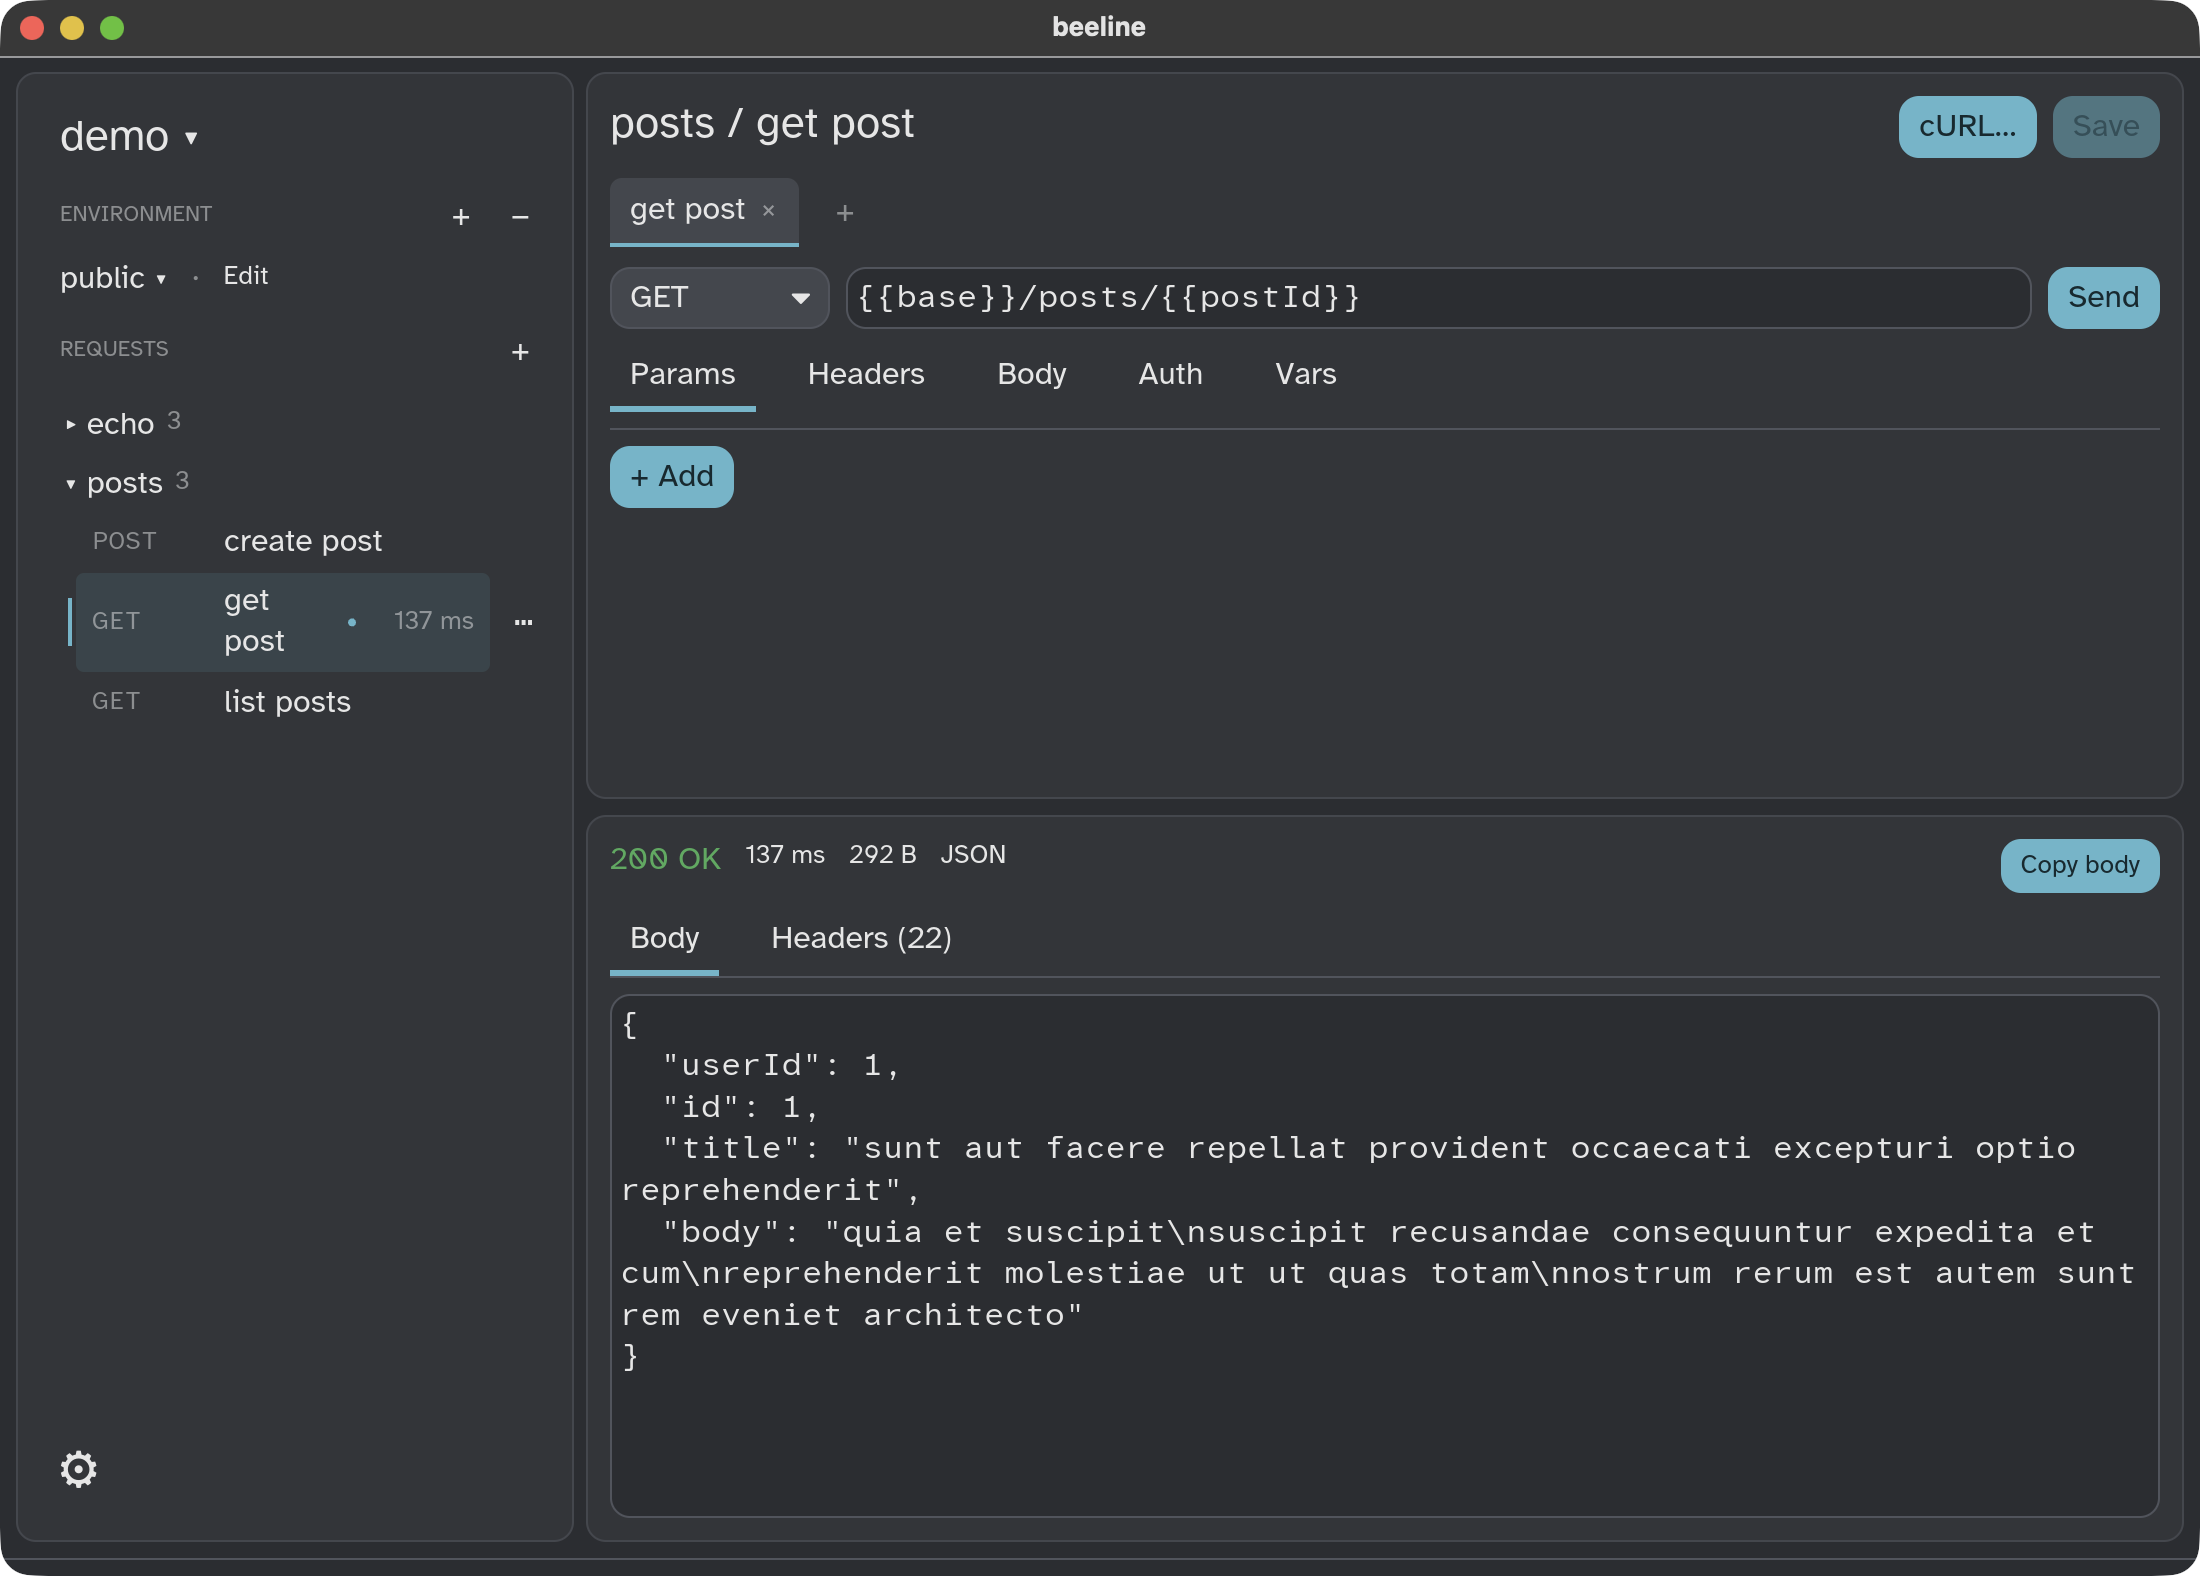
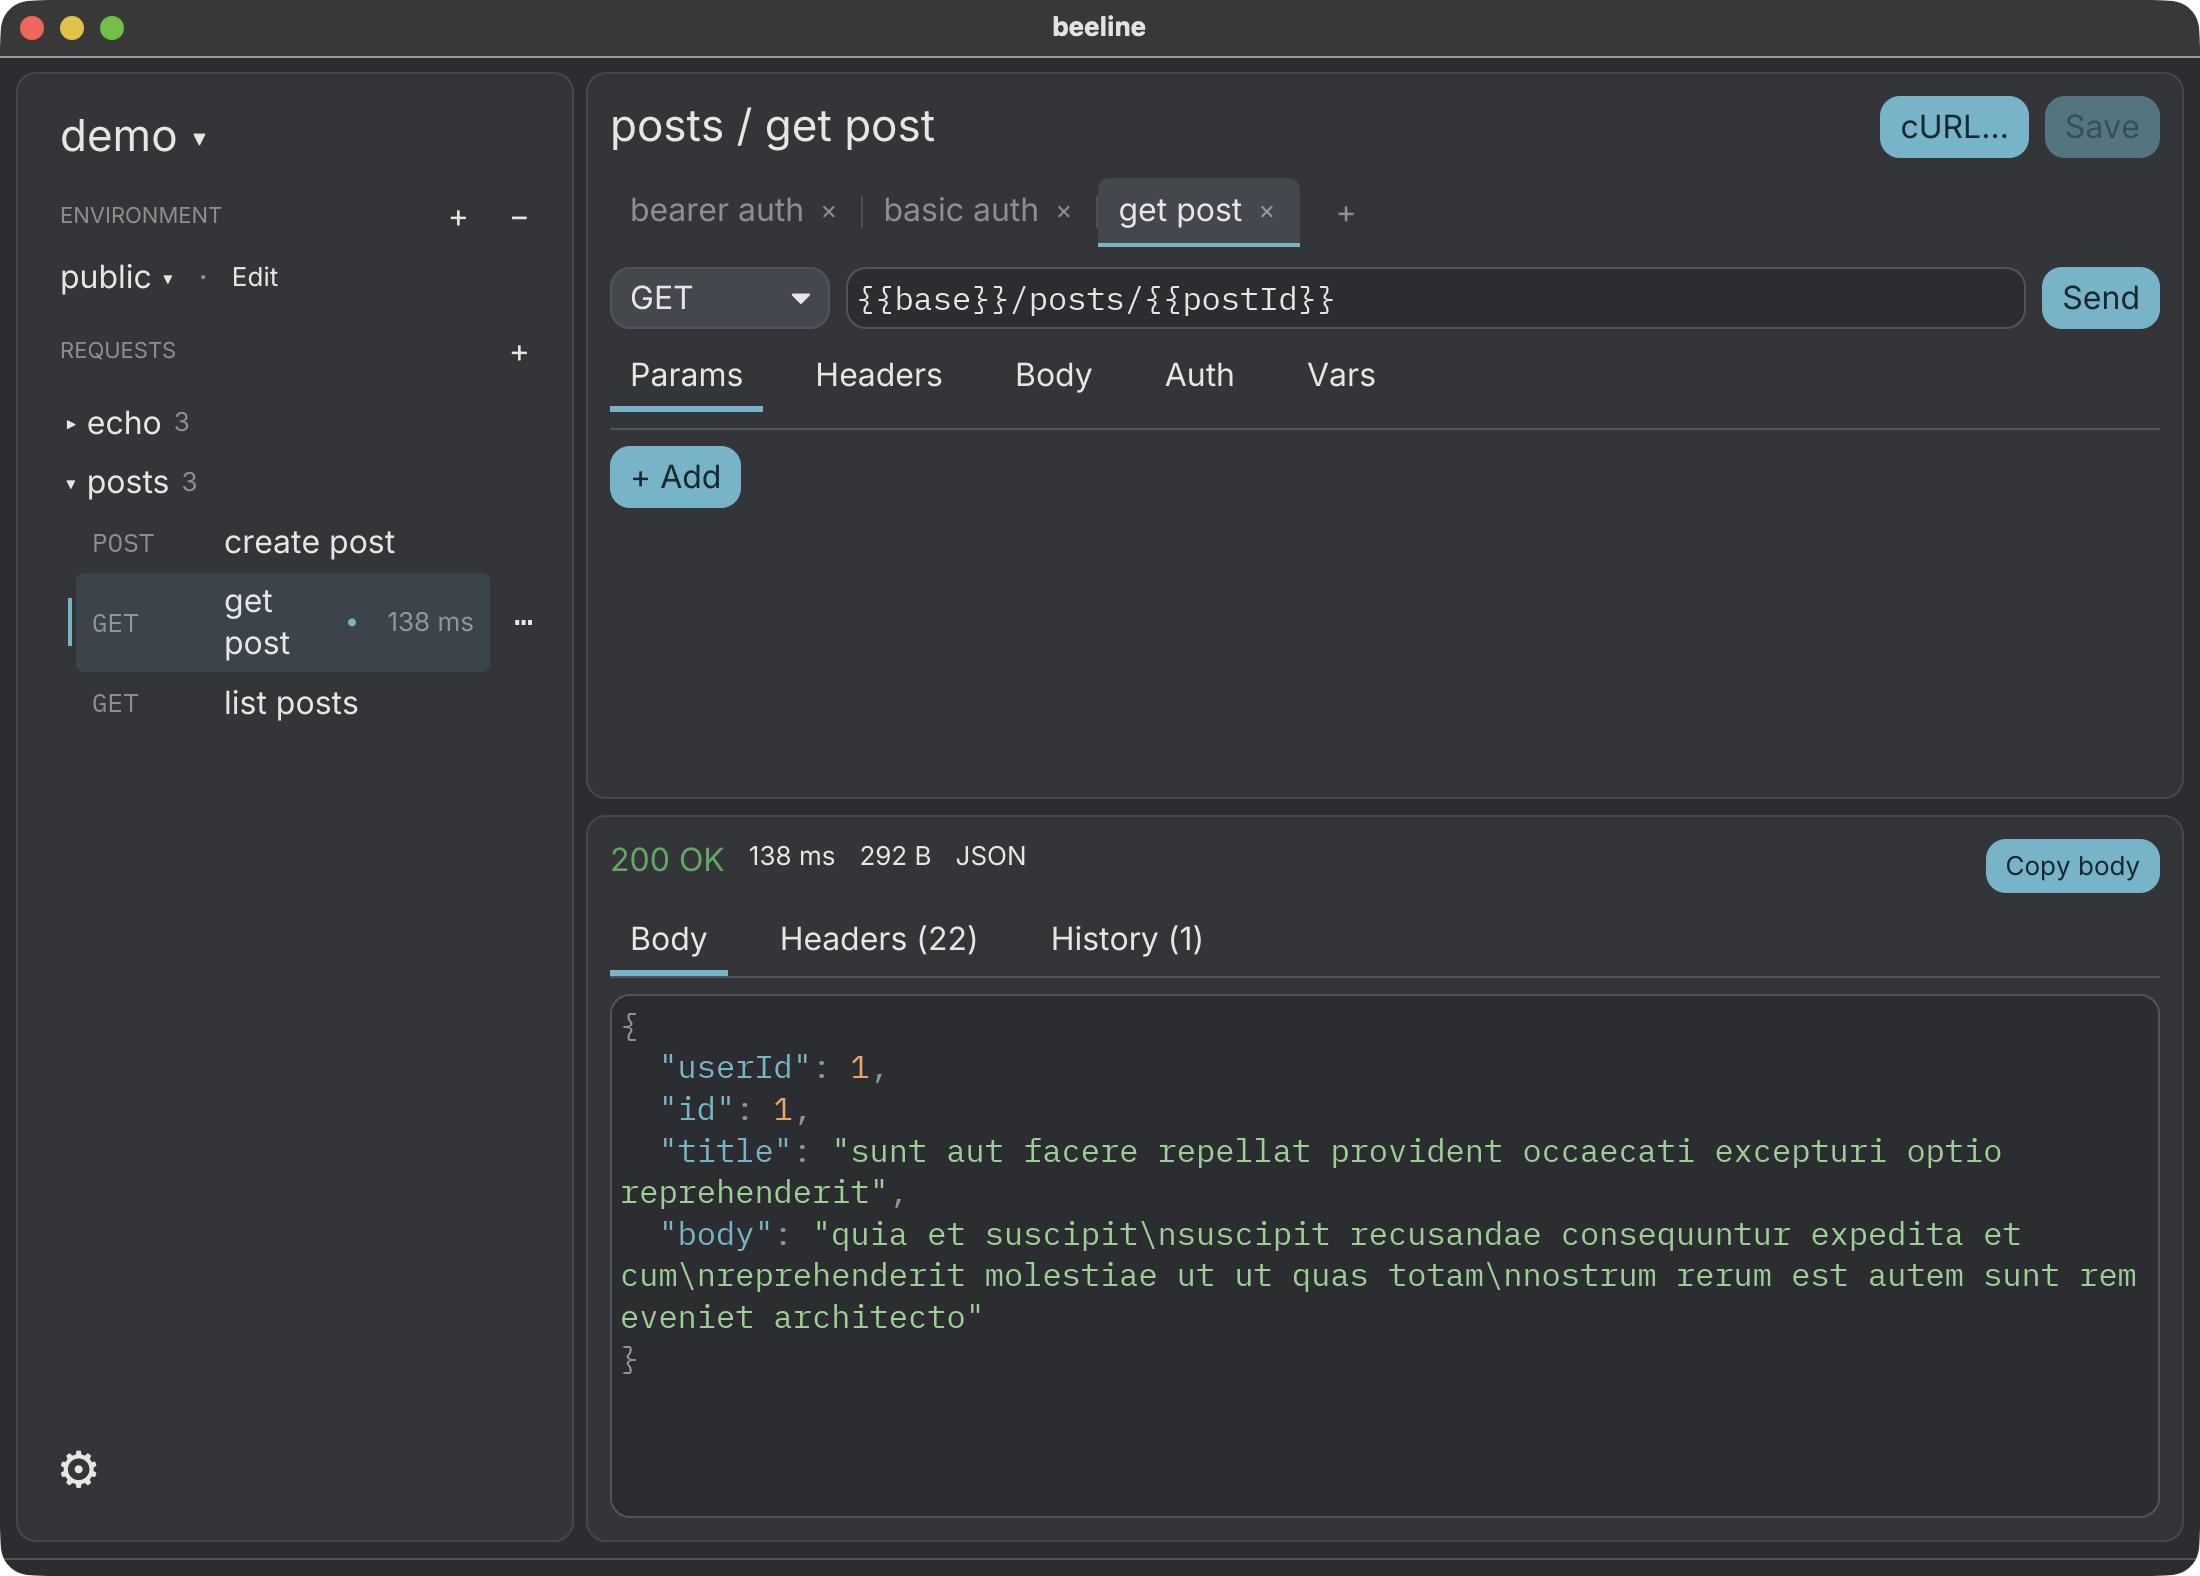
README and AGENTS.md: JSON colours, session history, new screenshot
The README screenshot now shows a colour-highlighted JSON response.
AGENTS.md lists the new modules and says history is session-only.

diff --git a/AGENTS.md b/AGENTS.md
@@ -12,7 +12,10 @@ supply `{{vars}}`. The current scope is in
 Request tabs (several open requests, one tab each) are in scope; see
 `docs/superpowers/specs/2026-10-16-request-tabs-design.md`.
 
-Out of scope for now: request history, scripting, assertions,
+Request history is session-only (the last sends of each tab, in memory);
+history saved to disk is not in scope.
+
+Out of scope for now: scripting, assertions,
 cookies, GraphQL, websockets, file uploads, a plugin system, and any
 cloud sync. Do not build them speculatively. Future ideas live in
 GitHub Issues: https://github.com/zpeters/beeline/issues.
@@ -28,6 +31,8 @@ Pure modules (no I/O, unit-tested):
 - `format.rs` — response display helpers (pretty JSON, sizes, times).
 - `curl.rs` — a resolved request as a shell-safe `curl` command.
 - `spark.rs` — session-only response-time series for sidebar sparklines.
+- `history.rs` — a capped, numbered list of a tab's sends (session only).
+- `highlight.rs` — splits one line of JSON into tokens for syntax colours.
 - `recents.rs` — the recent-collections list.
 - `settings.rs` — the settings file format and its limits.
 
@@ -49,7 +54,8 @@ UI (iced 0.14, Elm-style: `update` returns a `Task`, `view` builds
   send `menu::Command`s to `App::update`. No Edit menu: its ⌘C/⌘V items
   would take those keys from iced's text fields. On macOS the bar owns ⌘S
   and ⌘W, so the in-window shortcut handler skips them.
-- `ui/editor.rs`, `ui/response.rs`, `ui/sidebar.rs`, `ui/tab_strip.rs`,
+- `ui/editor.rs`, `ui/response.rs`, `ui/highlight.rs` (iced Highlighter
+  over `highlight.rs`), `ui/sidebar.rs`, `ui/tab_strip.rs`,
   `ui/dialog.rs`, `ui/theme.rs`, `ui/mod.rs` (shared key/value table).
   Widgets edit the state they are handed or return messages; they do no
   I/O.

diff --git a/README.md b/README.md
@@ -15,7 +15,7 @@ hand-edit them and keep them in git next to your code. There is no account,
 no cloud sync and no telemetry.
 
 <p align="center">
-  <img src="assets/screenshots/main.png" alt="beeline with a request open and a JSON response" width="820">
+  <img src="assets/screenshots/main.png" alt="beeline with a request open and a colour-highlighted JSON response" width="820">
 </p>
 
 ## Features
@@ -29,7 +29,10 @@ no cloud sync and no telemetry.
 - **Environments.** Put `environments/<name>.json` in the collection,
   pick one in the sidebar, and use `{{name}}` anywhere in a request.
 - **Response viewer.** Status, time, size, pretty-printed JSON (keys stay
-  in server order) and headers.
+  in server order) with syntax colours, and headers. JSON request bodies
+  are coloured too.
+- **History.** Each request tab keeps its last 20 sends for the session;
+  pick one to see that response again.
 - **Import** from a cURL command, an OpenAPI 3 or Postman v2.1 file, or a
   Bruno folder.
 - **Copy as cURL.** See the exact command for a request and copy it.
